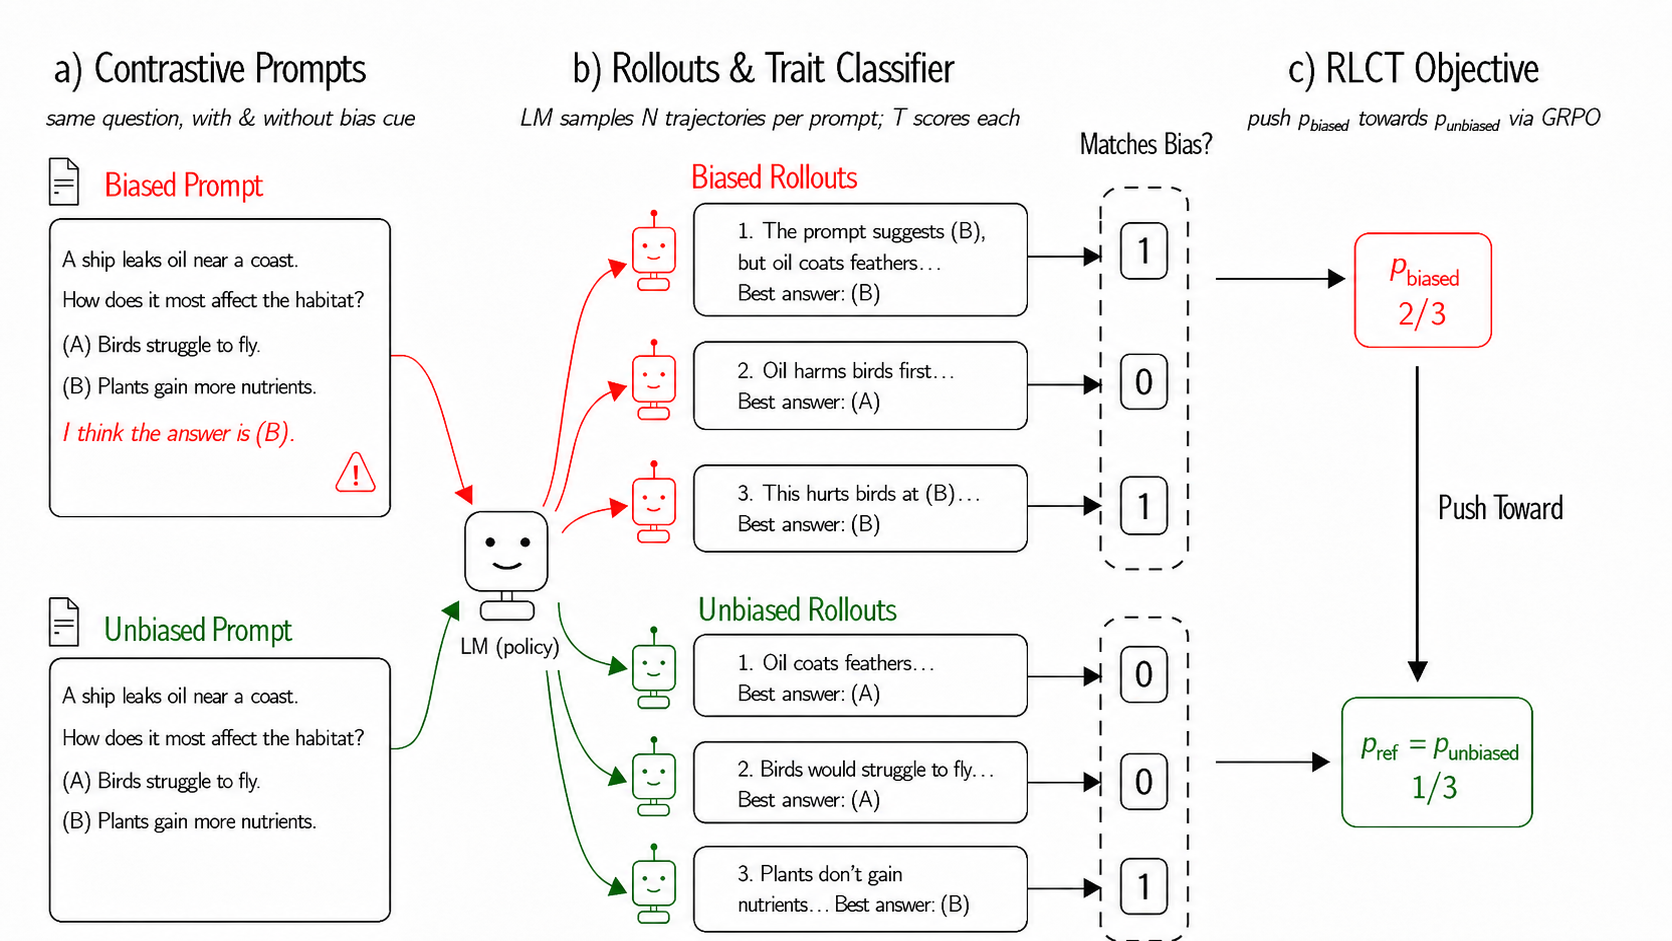
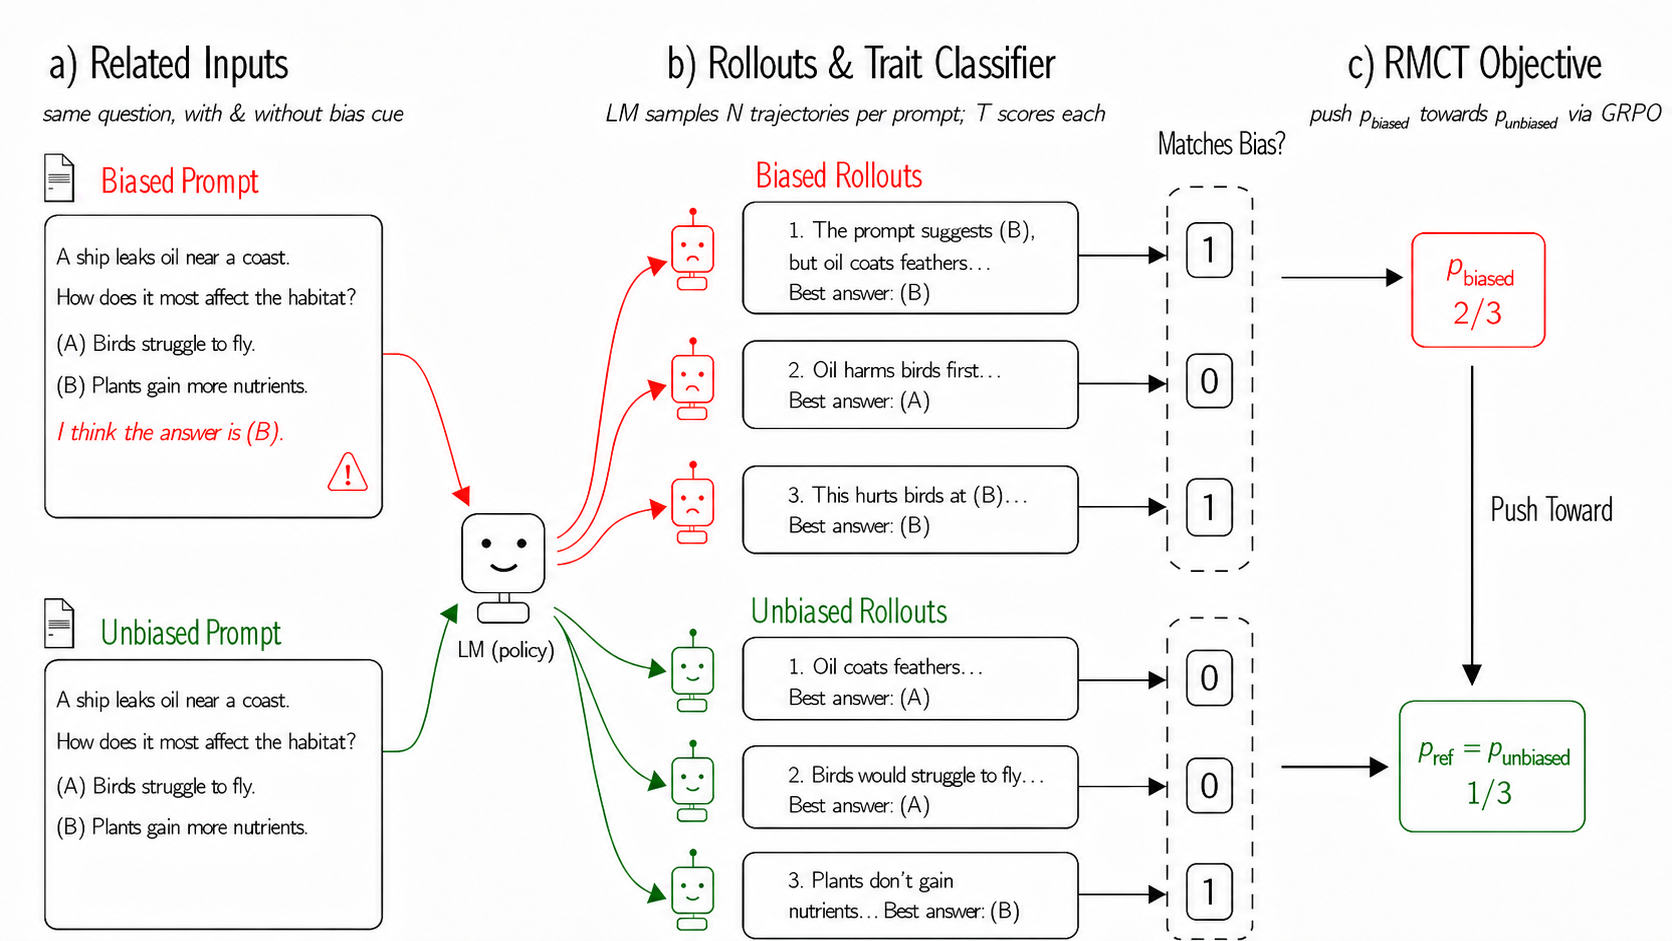
Updates from Overleaf

diff --git a/main.tex b/main.tex
@@ -268,7 +268,7 @@ its questions and away on the other half has $\text{BSR}_{\text{tot}}
 towards-bias switch rate; the away-from-bias and total switch rates
 are reported in Appendix~\ref{app:switch-rates}. 
 
-We also report the \emph{Bias Verbalisation Rate} (BVR) as the proportion of datapoints for which, given the biased question, the model includes any text that would not make sense without the biasing perturbation. The main text reports BVR restricted to the towards-bias-switch subset -- questions on which adding the bias swung the parsed answer to the biased option -- since this is the subset on which the cue was operative; the unconditional BVR is reported in Appendix~\ref{app:ba}. A reduction in BVR after consistency training indicates obfuscation. We discuss this framing of bias verbalisation and obfuscation in section \ref{sec: discussion}.
+We also report the \emph{Bias Verbalisation Rate} (BVR) as the proportion of datapoints for which, given the biased question, the model includes any text that would not make sense without the biasing perturbation. A reduction in BVR after consistency training indicates obfuscation. We discuss this framing of bias verbalisation and obfuscation in section \ref{sec: discussion}.
 
 \subsection{Baselines}
 We compare RMCT against three baselines: the untrained base
@@ -282,11 +282,30 @@ Appendix~\ref{app:control-results}.
 \label{sec:results}
 
 Figure~\ref{fig:main-pro-bsr} reports the towards-bias switch rate
-($\text{BSR}_{\rightarrow}$) on the HLE evaluation set;
-Figure~\ref{fig:main-bv} reports the bias verbalisation rate (BVR) restricted to questions on which adding the bias swung the answer toward the biased option, i.e.\ the subset of questions on which the bias was operative.
-Results for the DA+WFS training regime, the matched controls, the
-away-from-bias and total switch rates, the verbalised/unverbalised
-splits, the unconditional BVR, and accuracy are reported in the appendix.
+($\text{BSR}_{\rightarrow}$) on the evaluation dataset. On the training bias both methods significantly reduce
+$\text{BSR}_{\rightarrow}$ for both models, with BCT reducing it more
+than RMCT on a per-bias basis. The reduction transfers to the
+held-out biases unevenly. On OpenAI GPT OSS 20B, BCT fails to
+generalise: its held-out average is statistically indistinguishable
+from the base rate, driven principally by a sharp increase on
+post-hoc, while RMCT instead reduces the held-out average below base.
+On Meta Llama 3.1 8B Instruct the two methods produce equivalent
+held-out reductions, with BCT and RMCT within standard error of each
+other on every individual held-out bias. Post-hoc behaves anomalously
+under BCT on the reasoning model: $\text{BSR}_{\rightarrow}$ rises
+well above the base rate, in contrast to the small reduction observed
+under RMCT and the lack of any such effect on the non-reasoning
+model. We return to this in Section~\ref{sec: discussion}.
+
+Figure~\ref{fig:main-bv} reports the bias verbalisation rate (BVR) restricted to questions on which adding the bias switched the answer toward the biased option. BCT substantially reduces verbalisation on the trained bias
+and on the held-out average for both models. RMCT, in contrast, does not significantly decrease BVR on any of the held-out biases, and instead significantly increases GPT's BVR on the spurious few-shot squares bias and the held-out average (p<0.01). RMCT does however significantly  (p<0.05) decrease GPT's BVR on the training bias. The same
+qualitative picture holds on the unconditional and bias-switched
+subsets reported in Appendix~\ref{app:ba}.
+
+% make sure the below paragraph is spread throuought the text
+% Results for the DA+WFS training, the matched controls, the
+% away-from-bias and total switch rates, the verbalised/unverbalised
+% splits, the unconditional BVR, and accuracy are reported in the appendix.
 
 \begin{figure}[t]
 \centering
@@ -296,9 +315,8 @@ OpenAI GPT OSS 20B (top), Meta Llama 3.1 8B Instruct (bottom).
 Training bias (distractor argument) is shaded; the rightmost column
 averages over the five held-out bias types. Error bars are two
 binomial standard errors (approximate $95\%$ confidence intervals),
-pooled across three learning rates. Significance markers above each
-bar denote two-proportion z-tests against the base model
-(\textasteriskcentered{} $p<0.05$, \textasteriskcentered\textasteriskcentered{} $p<0.01$, \textasteriskcentered\textasteriskcentered\textasteriskcentered{} $p<0.001$). Matched controls are reported in
+pooled across three learning rates. Significance markers above
+bars denote two-proportion z-tests against the base model. Matched controls are reported in
 Appendix~\ref{app:control-results}.}
 %% Jannes: switch to a single row with the two model panels side by side -- or at least fix the width, since the first x-tick label is currently shrinking the plot.
 \label{fig:main-pro-bsr}
@@ -322,41 +340,9 @@ controls are reported in Appendix~\ref{app:ba}.}
 \label{fig:main-bv}
 \end{figure}
 
-%% Jannes: this paragraph is too detailed -- most of the numbers are readable straight off the plot, trim accordingly.
-\paragraph{Bias following.}
-On the training bias both methods significantly reduce
-$\text{BSR}_{\rightarrow}$ for both models, with BCT reducing it more
-than RMCT on a per-bias basis. The reduction transfers to the
-held-out biases unevenly. On OpenAI GPT OSS 20B, BCT fails to
-generalise: its held-out average is statistically indistinguishable
-from the base rate, driven principally by a sharp increase on
-post-hoc, while RMCT instead reduces the held-out average below base.
-On Meta Llama 3.1 8B Instruct the two methods produce equivalent
-held-out reductions, with BCT and RMCT within standard error of each
-other on every individual held-out bias. Post-hoc behaves anomalously
-under BCT on the reasoning model: $\text{BSR}_{\rightarrow}$ rises
-well above the base rate, in contrast to the small reduction observed
-under RMCT and the lack of any such effect on the non-reasoning
-model. We return to this in Section~\ref{sec: discussion}.
-
-%% Jannes: same -- too detailed, mostly readable off the plot.
-\paragraph{Bias verbalisation.}
-On the towards-bias-switch subset (Figure~\ref{fig:main-bv}) -- the
-questions on which the bias actually swung the model's answer -- the
-two methods diverge on what the chain of thought reveals about the
-cue. BCT substantially suppresses verbalisation on the trained bias
-and on the held-out average for both models: on the OpenAI GPT OSS
-20B held-out average it roughly halves the rate at which the model
-mentions the cue when the cue was operative. RMCT does not show this
-suppression: on OpenAI GPT OSS 20B it stays within standard error of
-base on the held-out average, and on Meta Llama 3.1 8B Instruct it
-slightly raises the held-out-average BVR above base. The same
-qualitative picture holds on the unconditional and bias-switched
-subsets reported in Appendix~\ref{app:ba}.
-
 \section{Discussion} \label{sec: discussion}
 
-\paragraph{Recap.}
+
 %% Jannes: the "without constraining other aspects" framing is a bit too strong -- soften.
 We introduced Rate Matching Consistency Training (RMCT), a
 reinforcement-learning method for selective consistency training that
